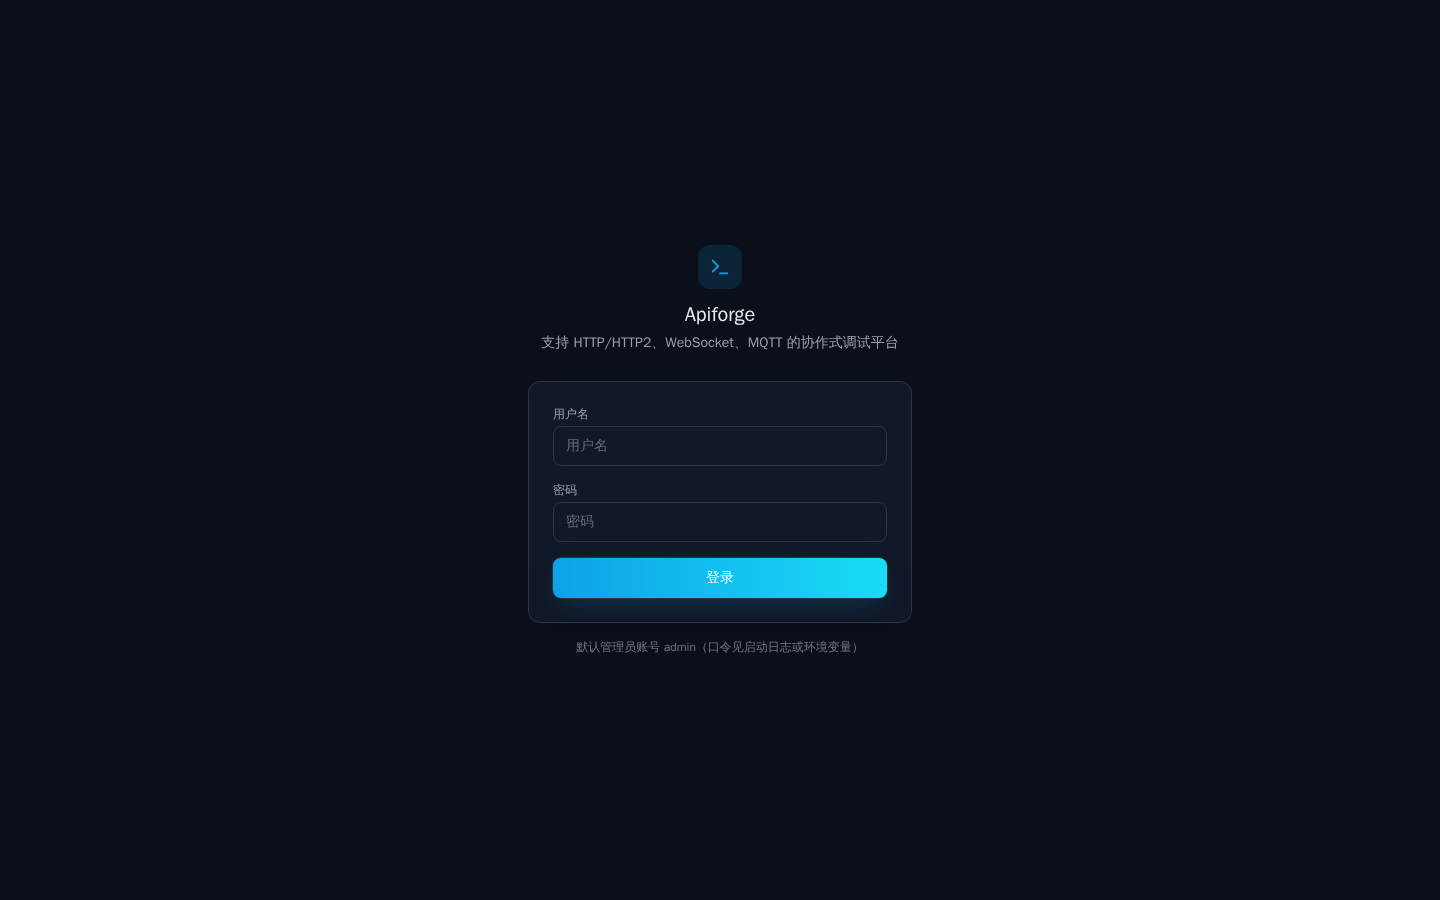
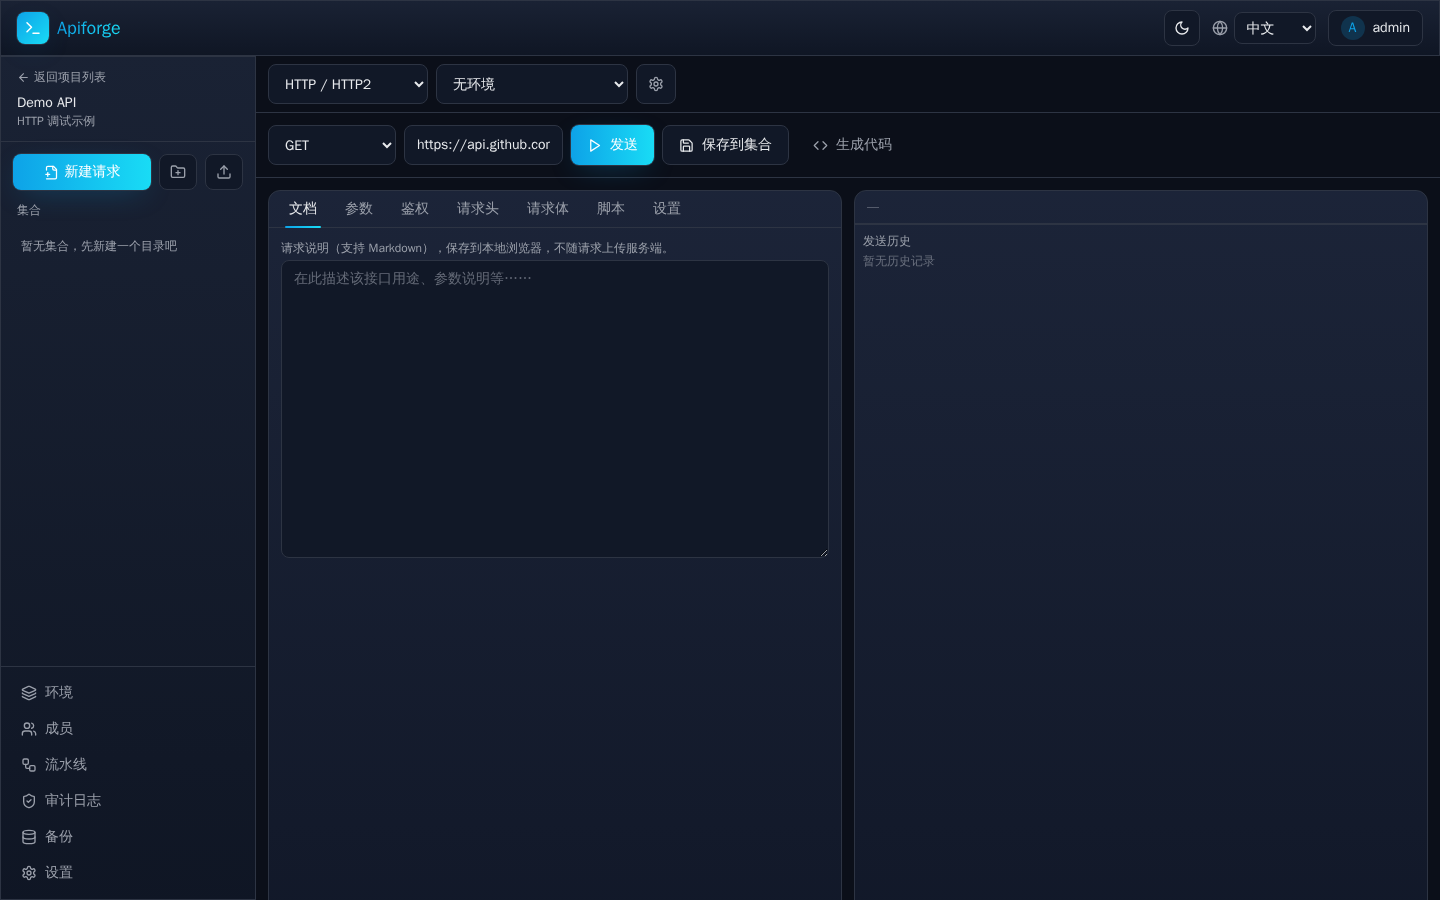
docs: replace placeholder screenshot with HTTP client debugging view
- docs/screenshot.png now shows the real HTTP client composer (multi-protocol tabs,
  GET request to a live API) instead of the login page placeholder.
- 优化.md: record the screenshot change and three discovered frontend defects
  (reset-password 401 backend bug, response rendering crash, hardcoded vite base).

diff --git a/优化.md b/优化.md
@@ -94,14 +94,16 @@ https://github.com/ShenDo-Pro/apiforge/actions/workflows/ci.yml/badge.svg
 
 ---
 
-## 五、✅ 演示截图（已加，待补充更佳素材）
+## 五、✅ 演示截图（已加 HTTP 客户端调试界面）
 
 已在 README.md（`## Screenshot`）与 README.zh-CN.md（`## 截图`）插入 `docs/screenshot.png`，并互相链接保持双语一致。
 
-- **当前截图**：登录页（含产品名 `Apiforge` 与「支持 HTTP/HTTP2、WebSocket、MQTT…」多协议标语），作为占位图。
-- **⚠️ 待补充（阻塞说明）**：主界面 `/projects` 在**当前运行环境会白屏崩溃**——运行中的后端是 7/14 的旧进程，其 JWT 校验契约与当前前端不符（登录成功但后续 API 返回 401，前端又未对 `items` 做空值守卫导致 `Cannot read properties of undefined (reading 'length')`）。该后端进程在本环境无法被杀死/重启，故暂截登录页。
-  - **后续动作**：用当前代码重启后端（或修复 JWT 契约）后，建议补一张「同屏调 MQTT + gRPC」的主界面截图，直接秀出 Postman/Insomnia 做不到的多协议壁垒。
-  - **前端加固建议**：`stores/project.ts` 的 `fetchProjects` 应对 API 错误做空值守卫（`this.projects = p?.items ?? []`），避免任何 401/错误导致整页白屏。
+- **当前截图**：HTTP 客户端调试界面（项目 `Demo API` 内，已填入 `GET https://api.github.com/repos/ShenDo-Pro/apiforge`，顶部为多协议标签 HTTP/HTTP2、WebSocket、MQTT、TCP/UDP、GraphQL、Socket.IO、gRPC，下方为请求编辑区：方法、URL、鉴权/请求头/请求体/脚本 等分页）。取代原先的登录页占位图。
+- **⚠️ 已知前端缺陷（待修，影响更优截图与可用性）**：
+  1. **`/api/auth/reset-password` 永远 401（后端 bug）**：`main.go` 中该路由只包了 `RequireAuth` 而没有先包 `JWT` 中间件来注入 `ContextUser`，导致 `ContextUser(r)==nil` 必返 401，默认管理员首次强制改密流程实际上无法完成（仅能通过直接改库 `need_reset=0` 绕过）。
+  2. **发送请求后前端崩溃（`reading 'length'`）**：在 HTTP 客户端点「发送」拿到响应后，前端响应渲染某处读取了 undefined 的 `.length`，整页抛 `TypeError: Cannot read properties of undefined (reading 'length')`（见 `index-DayjV-om.js`），响应区无法展示。需定位响应处理中的空值守卫。
+  3. **构建产物硬编码绝对 base**：当前 `frontend/dist/index.html` 中资源引用为绝对地址 `http://localhost:8080/assets/...`（vite `base` 被设为该值），导致部署到非 8080 或子路径时资源 404。生产应改 `base: './'` 或实际部署前缀后重新 `npm run build`。
+  - **更优素材建议**：修好上述 2/3 后，补一张「已发送请求并展示响应（状态码/Headers/Body/耗时）+ 同屏调 MQTT/gRPC」的主界面截图，直接秀出 Postman/Insomnia 做不到的多协议壁垒。
 - **最佳实践素材**：同屏一边调 MQTT、一边调 gRPC 的图（这是 Postman/Insomnia 做不到的）。
 
 ---